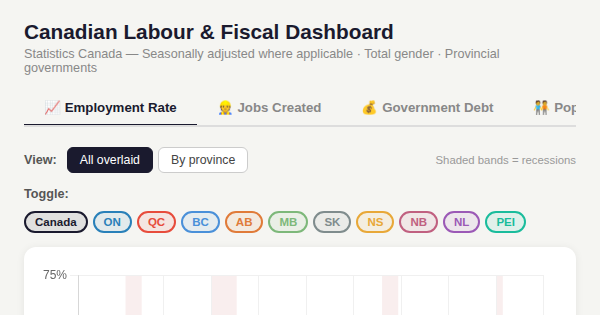
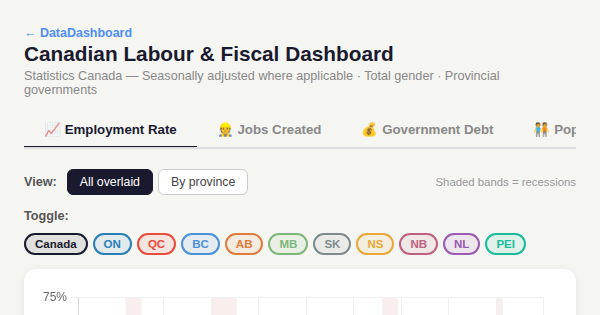
chore: update index, previews, og tags [skip ci]

diff --git a/employment_rate_canada.html b/employment_rate_canada.html
@@ -1,6 +1,26 @@
 <!DOCTYPE html>
 <html lang="en">
 <head>
+  <!-- responsive-inject-v2 -->
+  <style>
+    @media (min-width: 769px) {
+      body { max-width: 1200px; margin: 0 auto; }
+      .panel > .card { height: 440px; }
+      canvas { min-height: 380px; }
+    }
+  </style>
+  <script>
+    (function () {
+      if (window.innerWidth < 769) return;
+      Object.defineProperty(window, 'Chart', {
+        configurable: true,
+        set: function (C) {
+          Object.defineProperty(window, 'Chart', { configurable: true, writable: true, value: C });
+          C.defaults.maintainAspectRatio = false;
+        }
+      });
+    })();
+  </script>
 <meta charset="UTF-8">
 <meta name="viewport" content="width=device-width, initial-scale=1.0">
 <title>Canadian Labour & Fiscal Dashboard</title>
@@ -42,22 +62,9 @@ footer{font-size:0.7rem;color:#bbb;text-align:center;margin-top:18px;font-style:
   <meta property="og:image:height" content="315">
   <meta property="twitter:card" content="summary_large_image">
   <meta property="twitter:image" content="https://teakayah.github.io/dashboard/previews/employment_rate_canada.png">
-  <!-- responsive-inject -->
-  <style>
-    @media (min-width: 769px) {
-      body { max-width: 1200px; margin: 0 auto; }
-      canvas { min-height: 380px; }
-    }
-  </style>
-  <script>
-    document.addEventListener('DOMContentLoaded', function () {
-      if (typeof Chart !== 'undefined') {
-        Chart.defaults.maintainAspectRatio = false;
-      }
-    });
-  </script>
 </head>
 <body>
+<!-- back-link-inject --><div style="font-family:-apple-system,BlinkMacSystemFont,'Segoe UI',sans-serif;padding:6px 0 2px;font-size:0.78rem;"><a href="https://teakayah.github.io/dashboard/" style="color:#4f8ef7;text-decoration:none;font-weight:600;">&#8592; DataDashboard</a></div>
 
 <h1>Canadian Labour &amp; Fiscal Dashboard</h1>
 <p class="subtitle">Statistics Canada &mdash; Seasonally adjusted where applicable &middot; Total gender &middot; Provincial governments</p>
